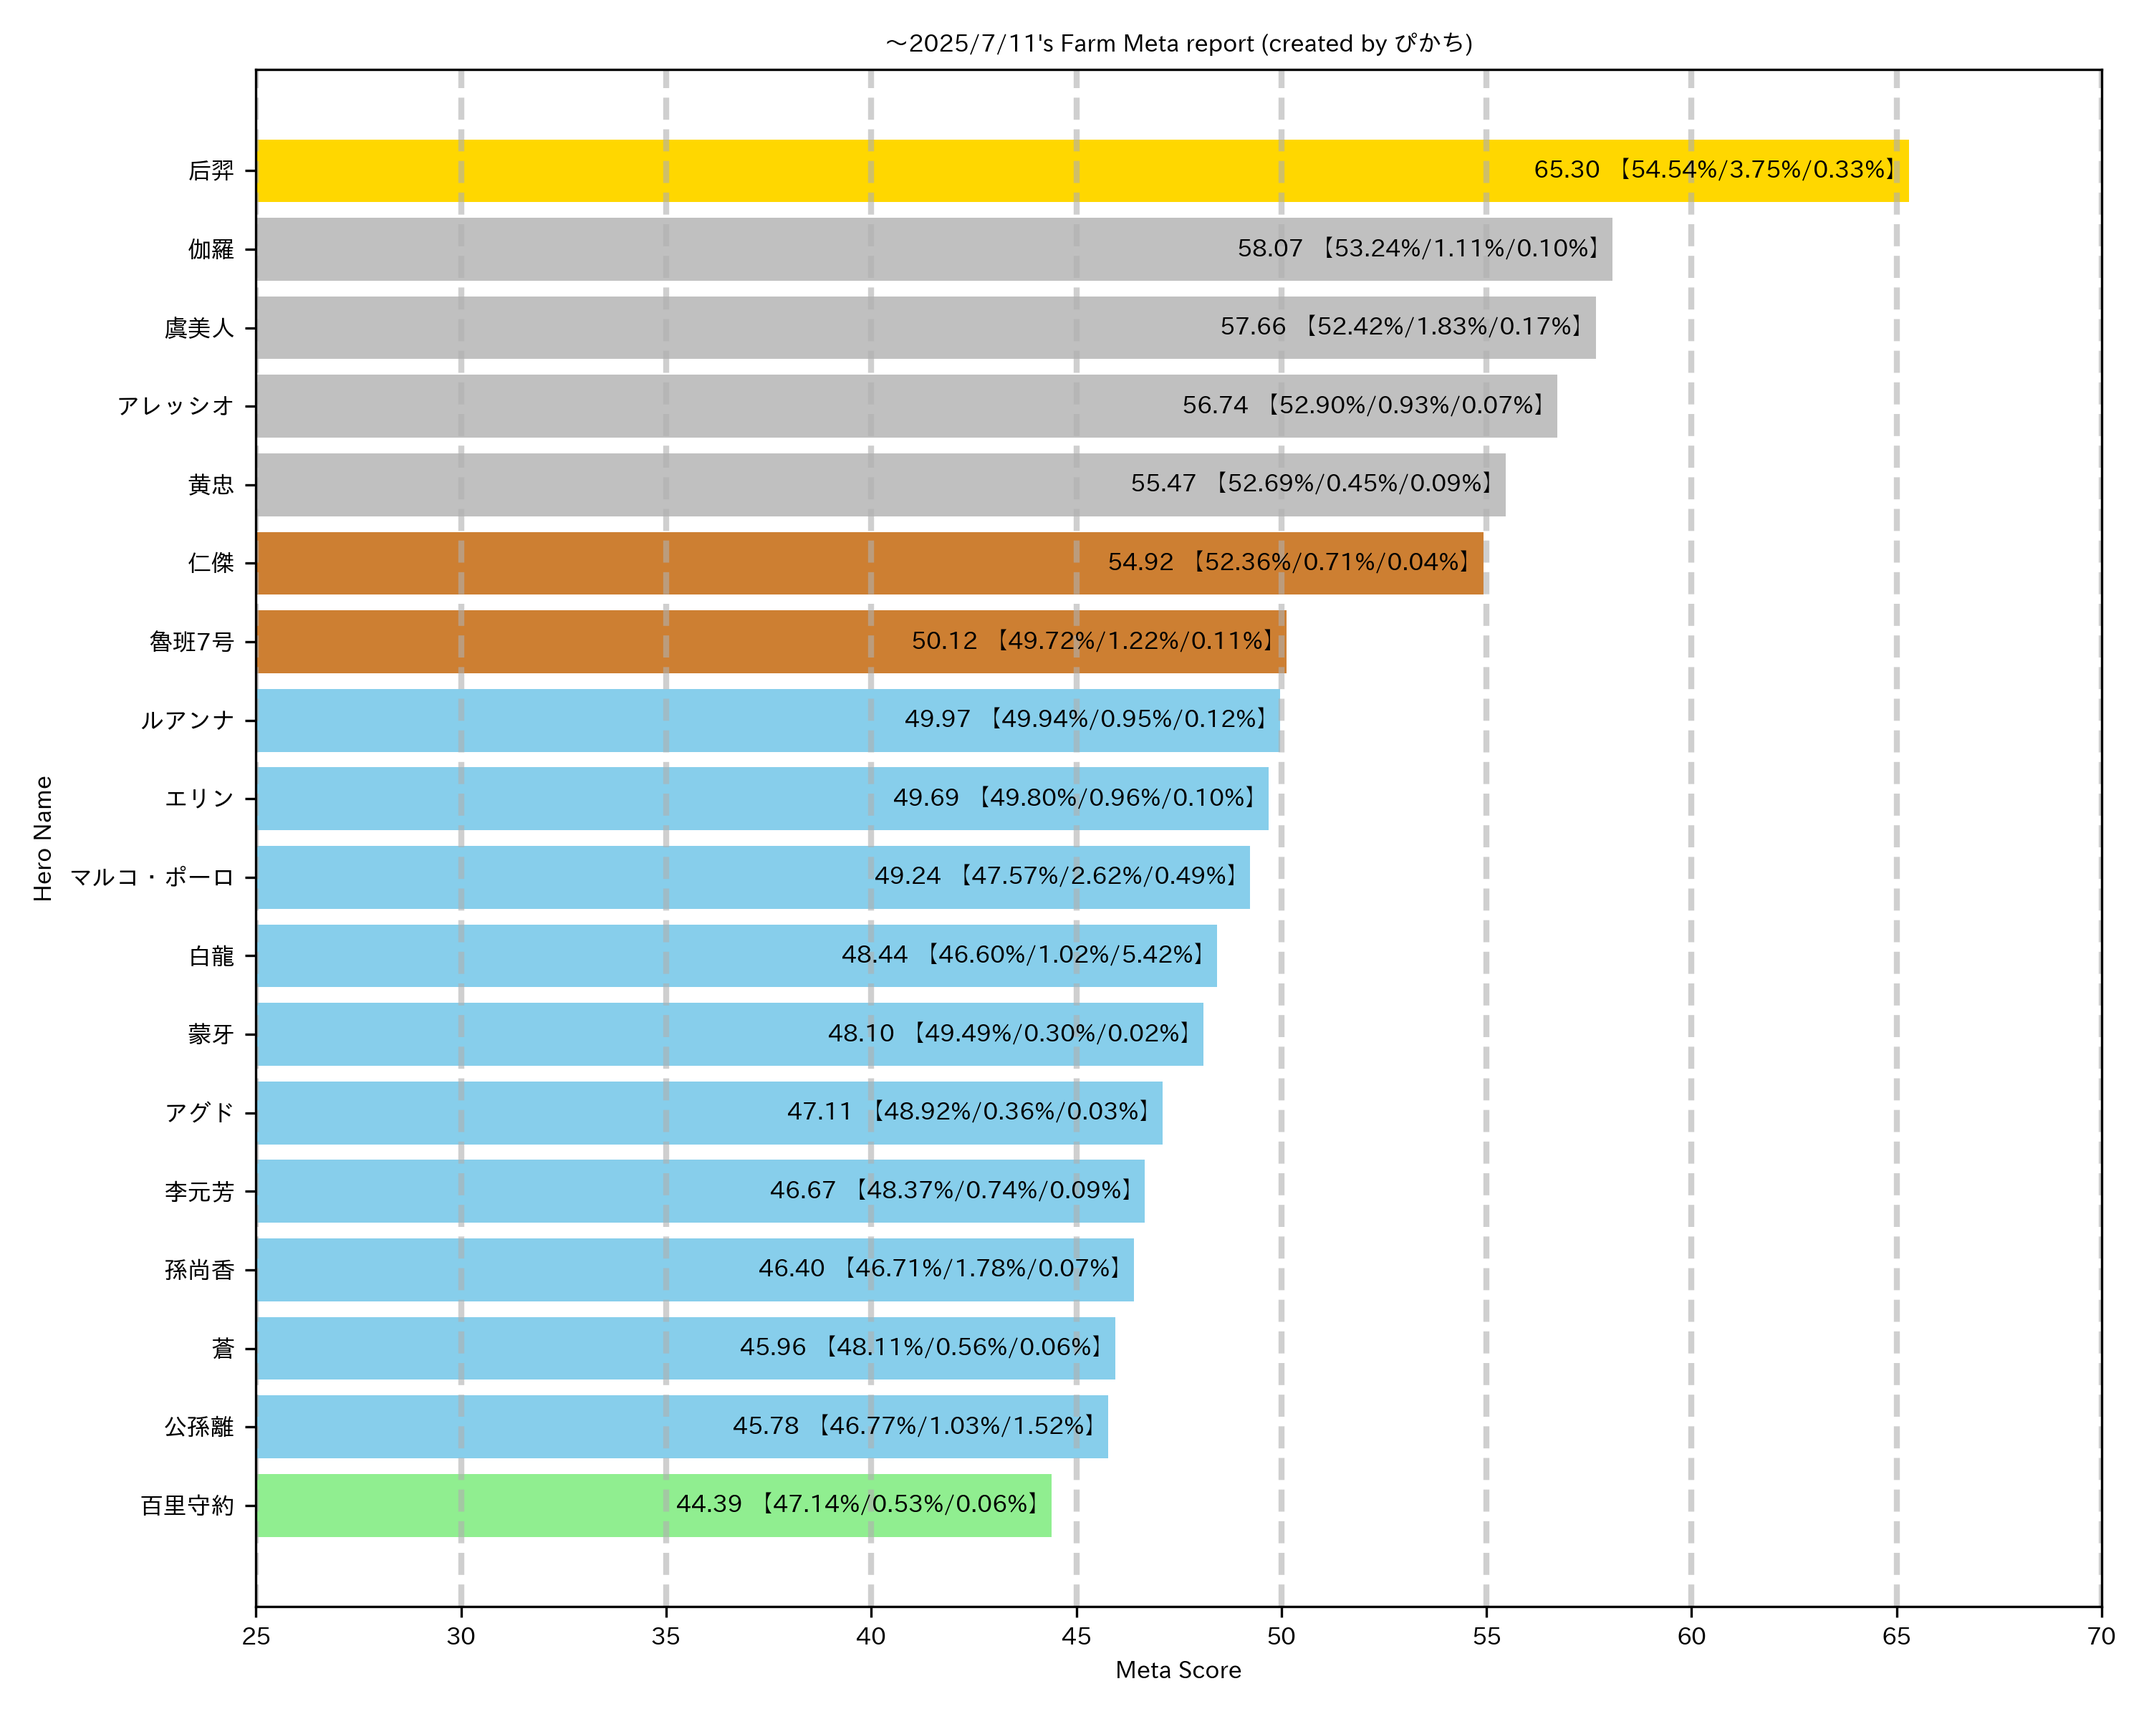
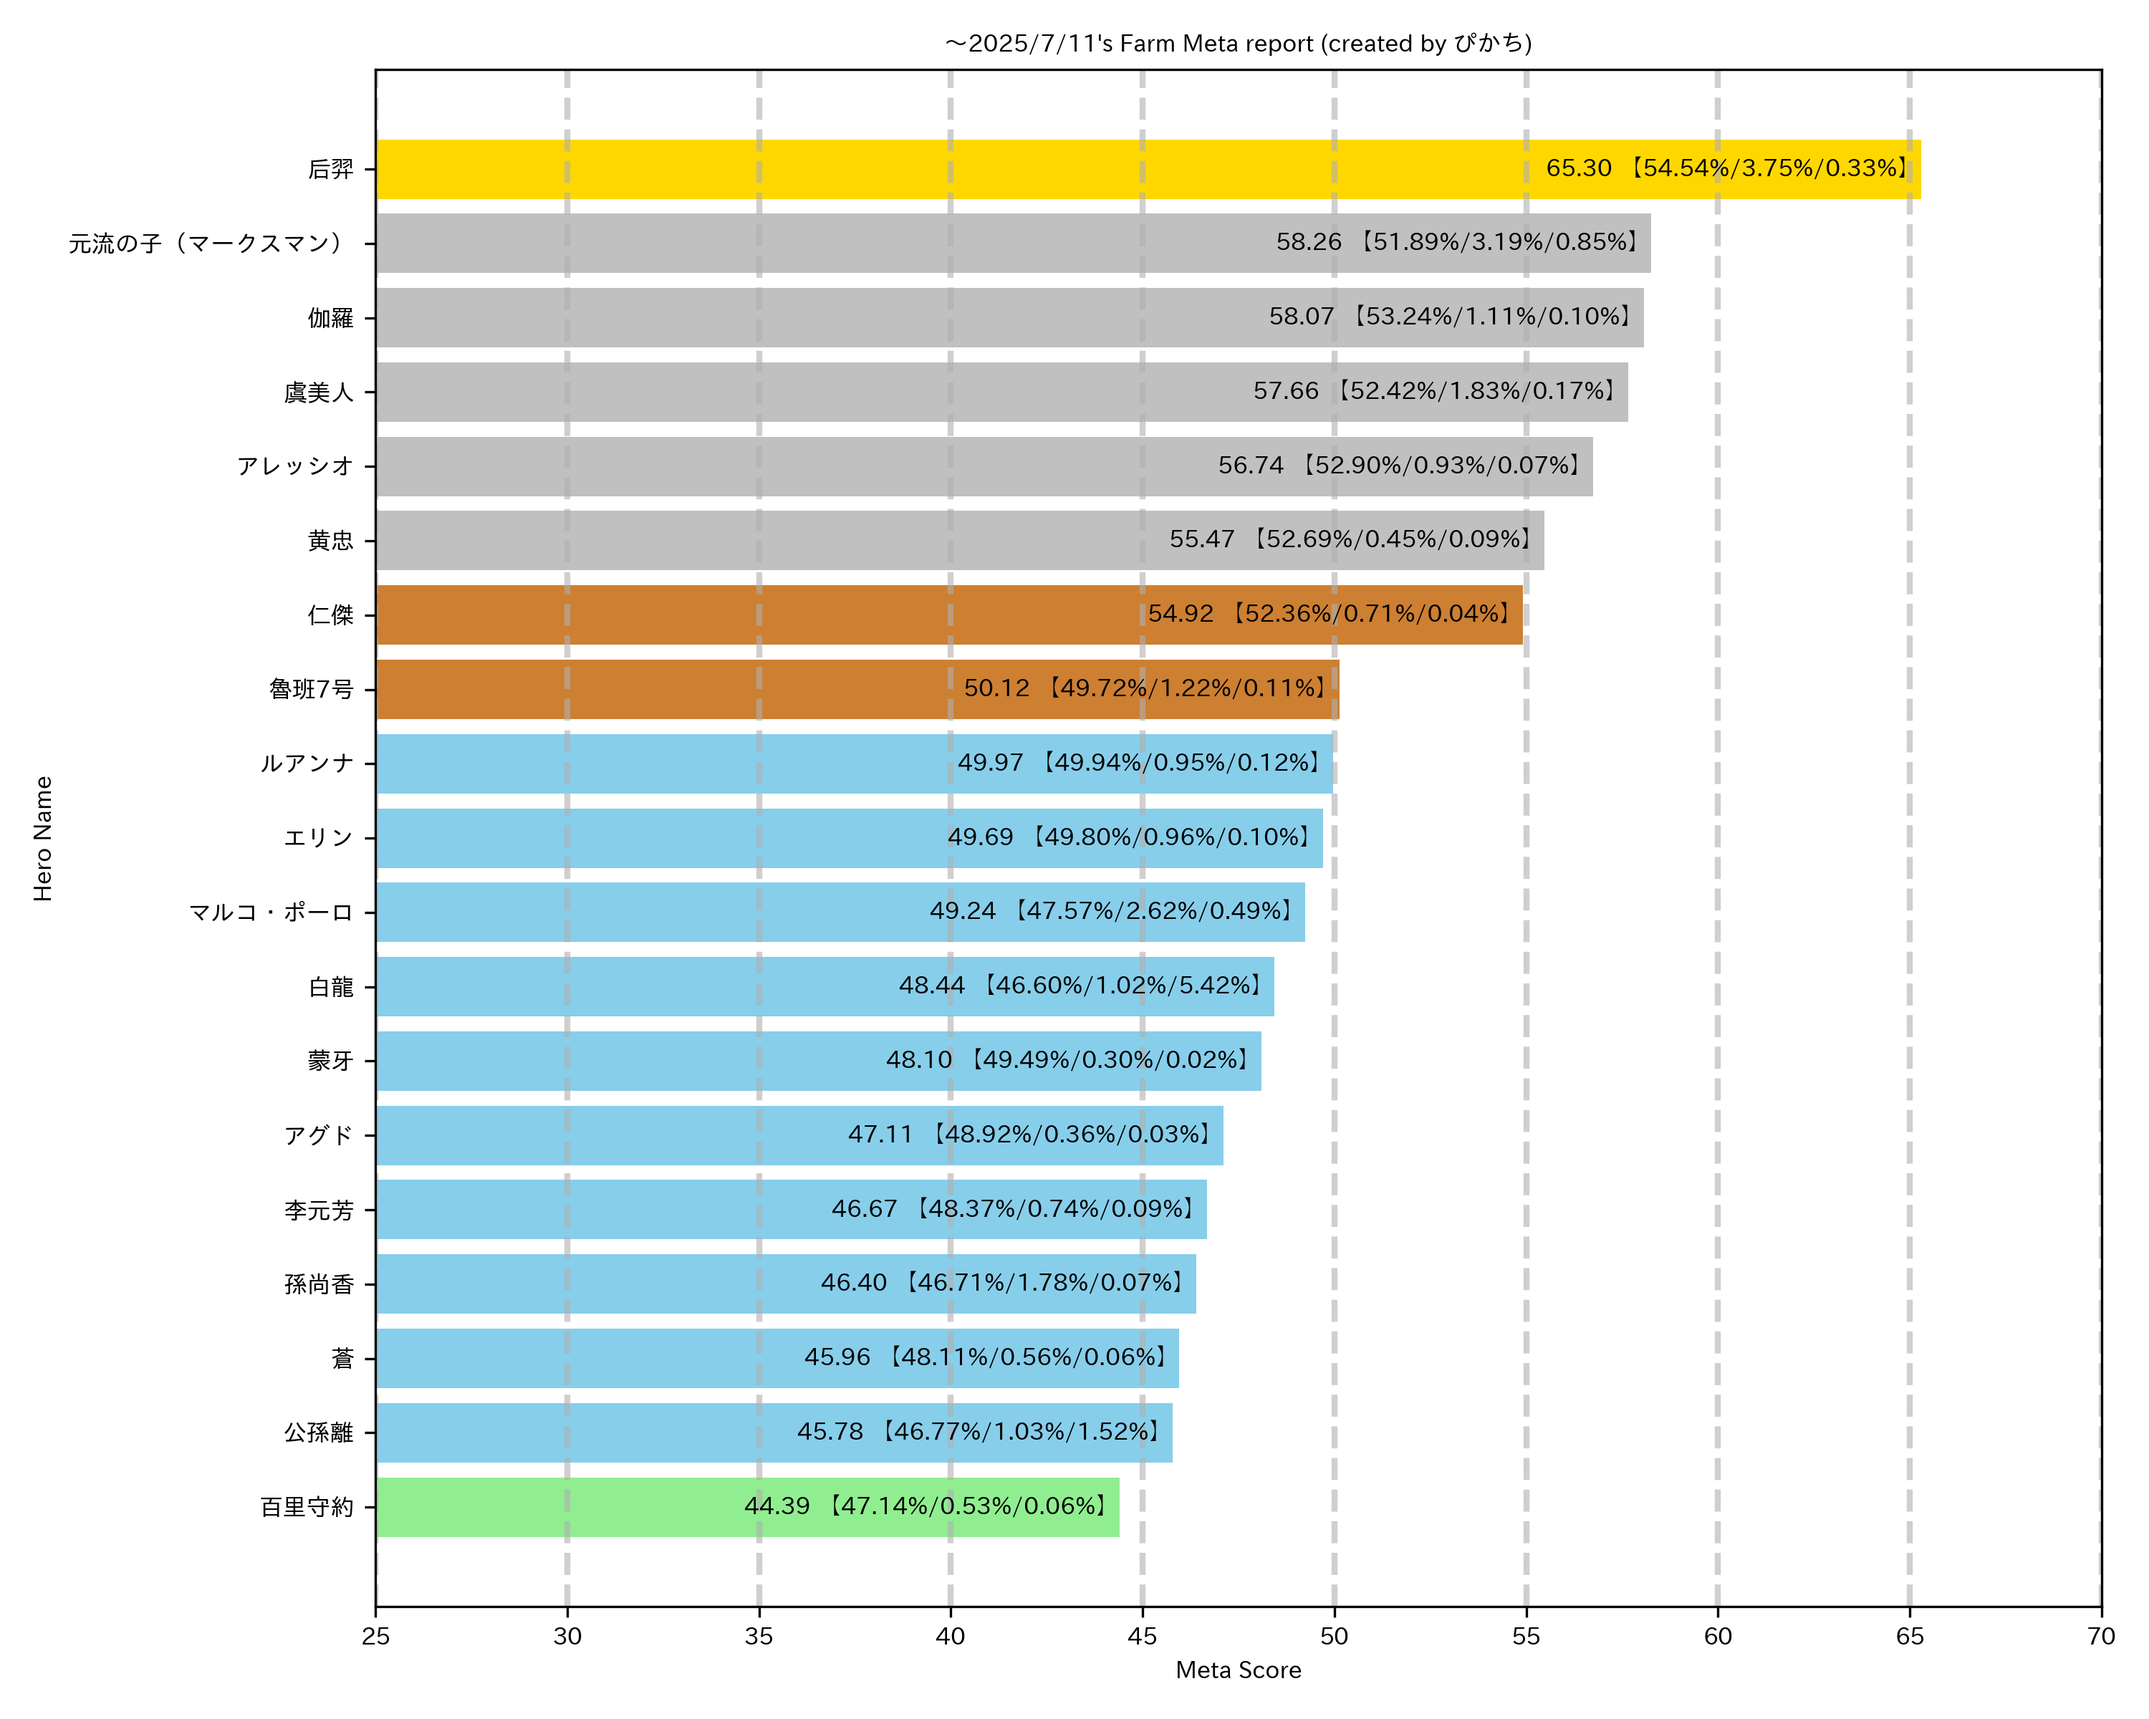
Generated HTML

diff --git a/list_html/for_mobile/All_mb_table.html b/list_html/for_mobile/All_mb_table.html
@@ -152,6 +152,22 @@
                     
                     <tbody class="hero-block">
                         <tr class="hero-row">
+                            <td rowspan="3"><img src="../hok_pics/None.png" alt="元流の子（マークスマン）" /></td>
+                            <td class="hero-name">元流の子（マークスマン）</td>
+                        </tr>
+                        <tr class="hero-row">
+                            <td class="highlight">58.26(+3.59)</td>
+                        </tr>
+                        <tr class="hero-row">
+                            <td class="highlight">B → A</td>
+                        </tr>
+                        <tr class="hero-row">
+                            <td colspan="2" class="supplementary">【49.89%/2.99%/1.99%】→【51.89%/3.19%/0.85%】</td>
+                        </tr>
+                    </tbody>
+                    
+                    <tbody class="hero-block">
+                        <tr class="hero-row">
                             <td rowspan="3"><img src="../hok_pics/wuyan.png" alt="鐘無艶" /></td>
                             <td class="hero-name">鐘無艶</td>
                         </tr>

diff --git a/list_html/for_mobile/Farm_mb_table.html b/list_html/for_mobile/Farm_mb_table.html
@@ -88,6 +88,22 @@
                     
                     <tbody class="hero-block">
                         <tr class="hero-row">
+                            <td rowspan="3"><img src="../hok_pics/None.png" alt="元流の子（マークスマン）" /></td>
+                            <td class="hero-name">元流の子（マークスマン）</td>
+                        </tr>
+                        <tr class="hero-row">
+                            <td class="highlight">58.26(+3.59)</td>
+                        </tr>
+                        <tr class="hero-row">
+                            <td class="highlight">B → A</td>
+                        </tr>
+                        <tr class="hero-row">
+                            <td colspan="2" class="supplementary">【49.89%/2.99%/1.99%】→【51.89%/3.19%/0.85%】</td>
+                        </tr>
+                    </tbody>
+                    
+                    <tbody class="hero-block">
+                        <tr class="hero-row">
                             <td rowspan="3"><img src="../hok_pics/garo.png" alt="伽羅" /></td>
                             <td class="hero-name">伽羅</td>
                         </tr>

diff --git a/list_html/for_pc/All_pc_table.html b/list_html/for_pc/All_pc_table.html
@@ -116,6 +116,14 @@
                     </tr>
                     
                     <tr class="hero-row">
+                        <td><img src="../hok_pics/None.png" alt="元流の子（マークスマン）" /></td>
+                        <td class="hero-name">元流の子（マークスマン）</td>
+                        <td class="highlight">58.26(+3.59)</td>
+                        <td class="highlight">B → A</td>
+                        <td class="supplementary">【49.89%/2.99%/1.99%】→【51.89%/3.19%/0.85%】</td>
+                    </tr>
+                    
+                    <tr class="hero-row">
                         <td><img src="../hok_pics/wuyan.png" alt="鐘無艶" /></td>
                         <td class="hero-name">鐘無艶</td>
                         <td class="highlight">58.16(+1.56)</td>

diff --git a/list_html/for_pc/Farm_pc_table.html b/list_html/for_pc/Farm_pc_table.html
@@ -84,6 +84,14 @@
                     </tr>
                     
                     <tr class="hero-row">
+                        <td><img src="../hok_pics/None.png" alt="元流の子（マークスマン）" /></td>
+                        <td class="hero-name">元流の子（マークスマン）</td>
+                        <td class="highlight">58.26(+3.59)</td>
+                        <td class="highlight">B → A</td>
+                        <td class="supplementary">【49.89%/2.99%/1.99%】→【51.89%/3.19%/0.85%】</td>
+                    </tr>
+                    
+                    <tr class="hero-row">
                         <td><img src="../hok_pics/garo.png" alt="伽羅" /></td>
                         <td class="hero-name">伽羅</td>
                         <td class="highlight">58.07(-1.96)</td>
